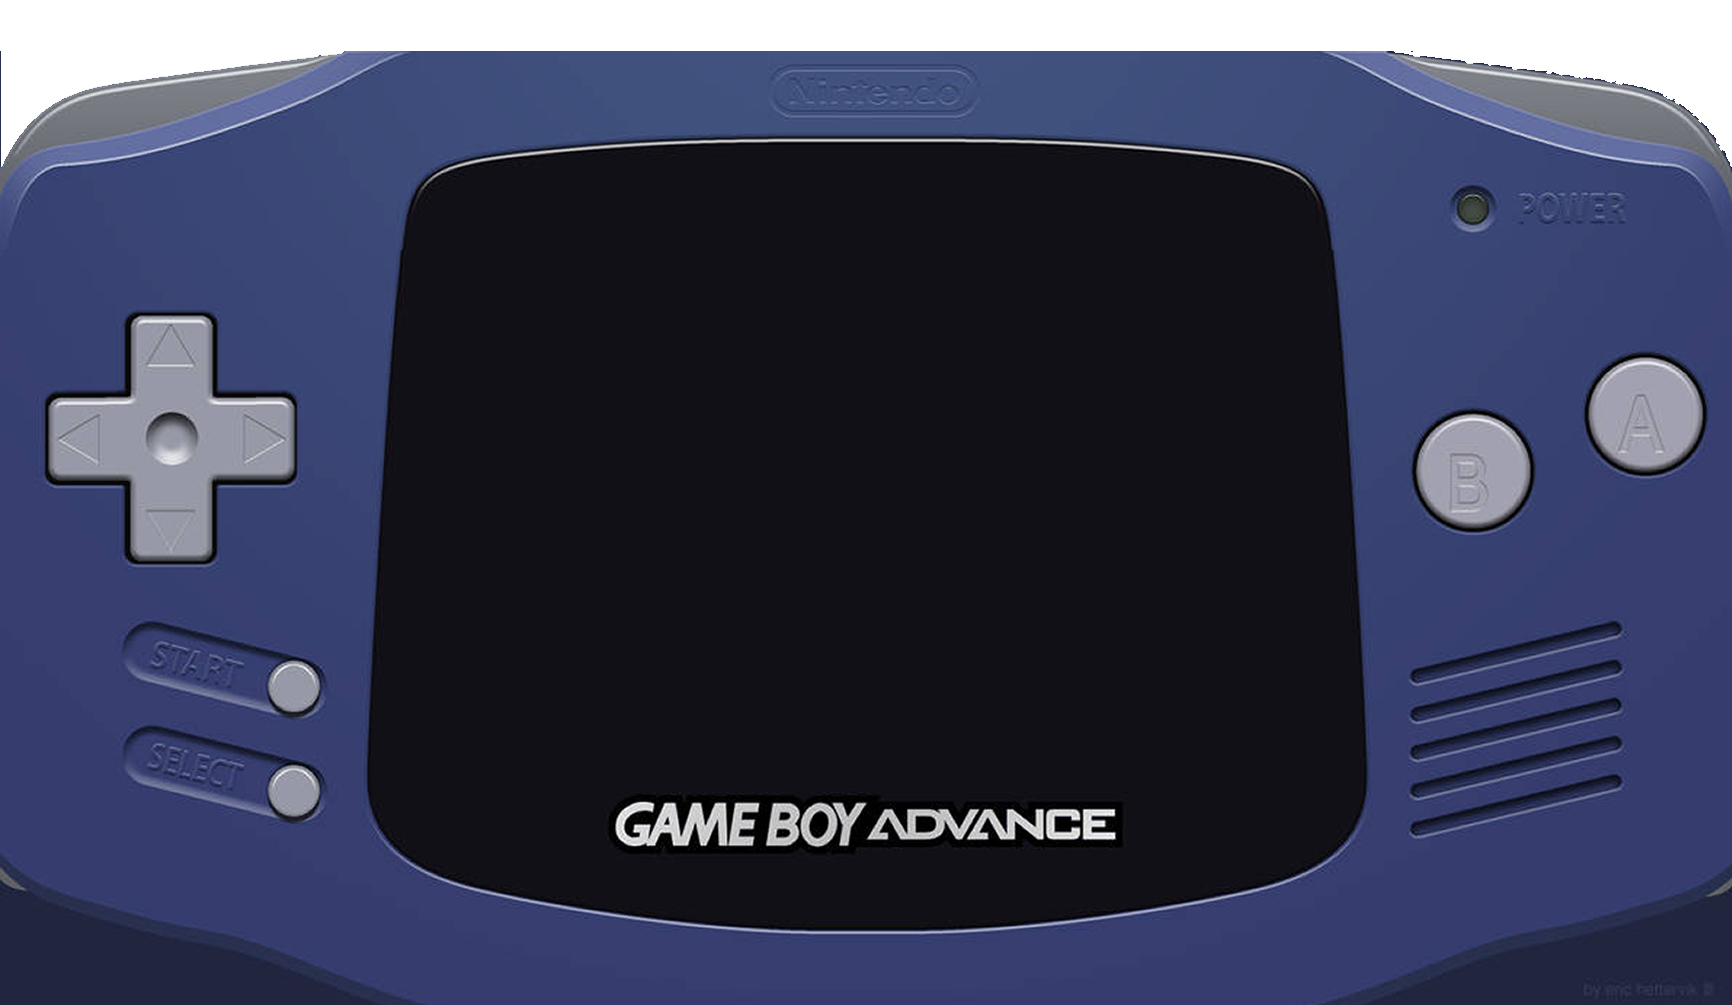
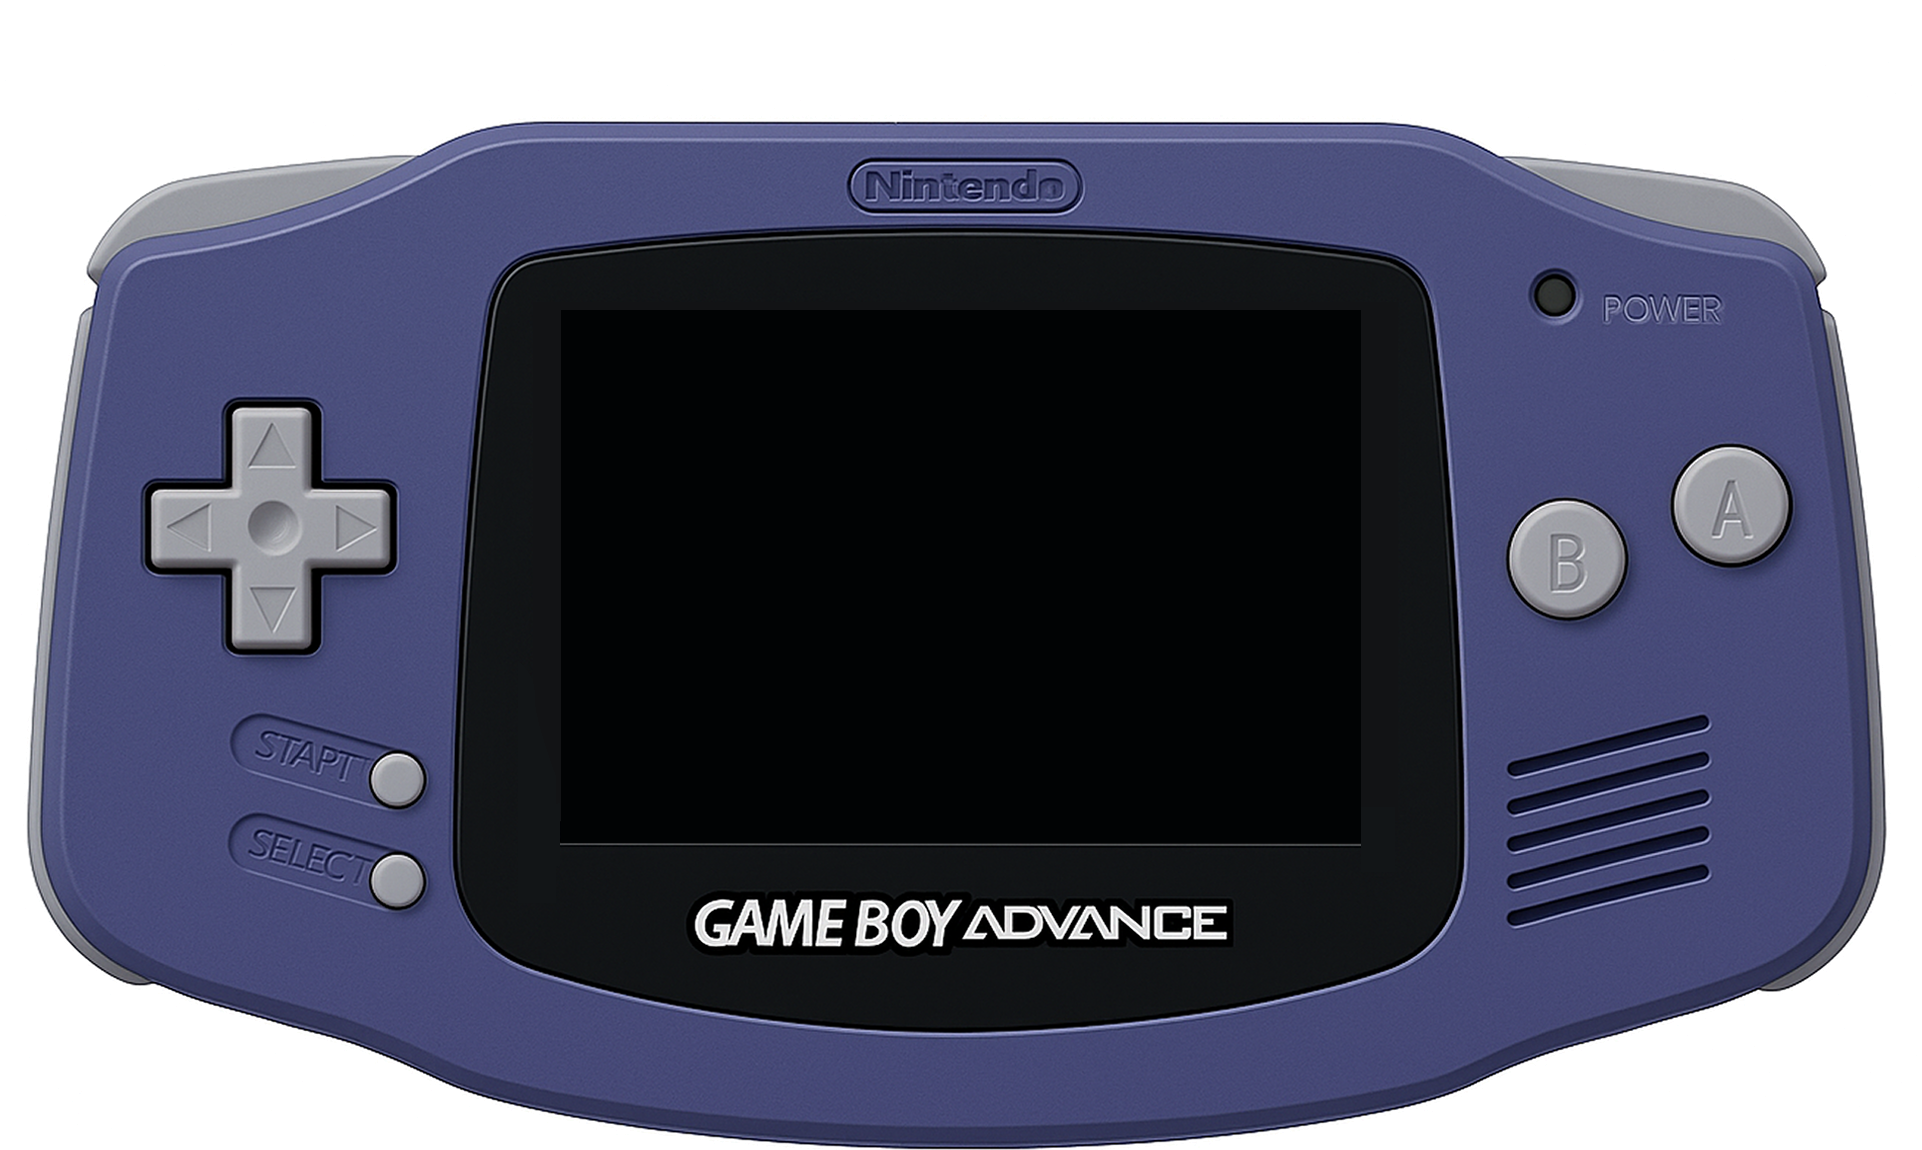
Style: body background and overflow allow setting

diff --git a/src/css/base.css b/src/css/base.css
@@ -1,7 +1,7 @@
 body {
   min-height: 100vh;
   min-width: 100vw;
-  background-color: #21253e;
+  background-color: #ffffff;
   color: var(--fg);
   background-image: url("../../assets/images/gba.png");
   background-repeat: no-repeat;
@@ -10,6 +10,7 @@ body {
   display: flex;
   align-items: center;
   justify-content: center;
+  overflow: hidden
 }
 h1,
 h2,
